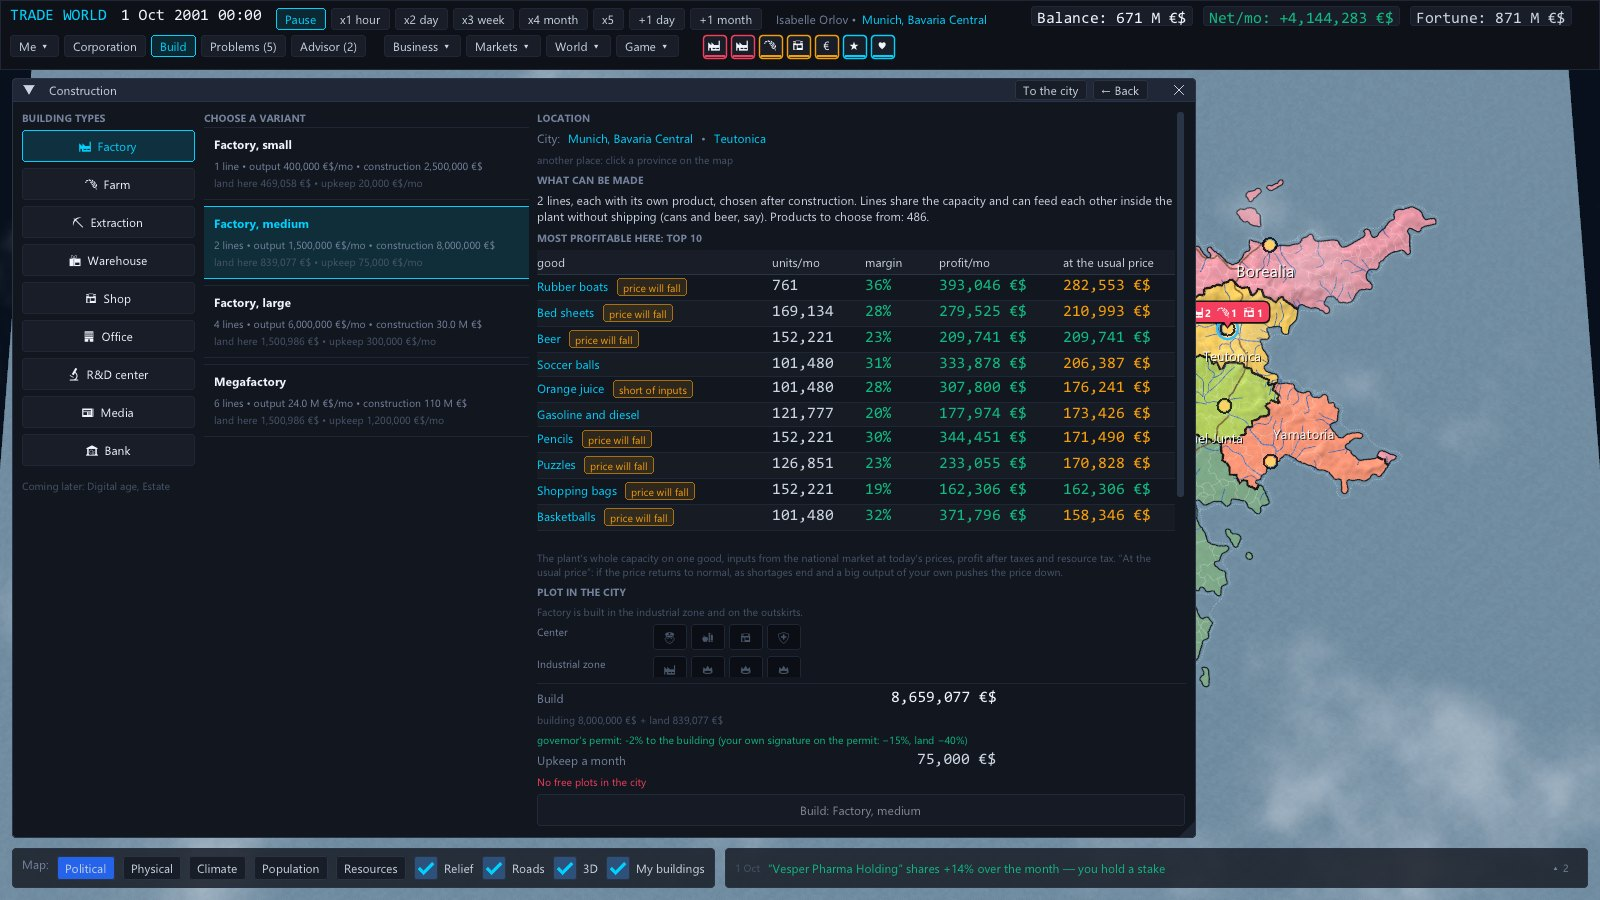
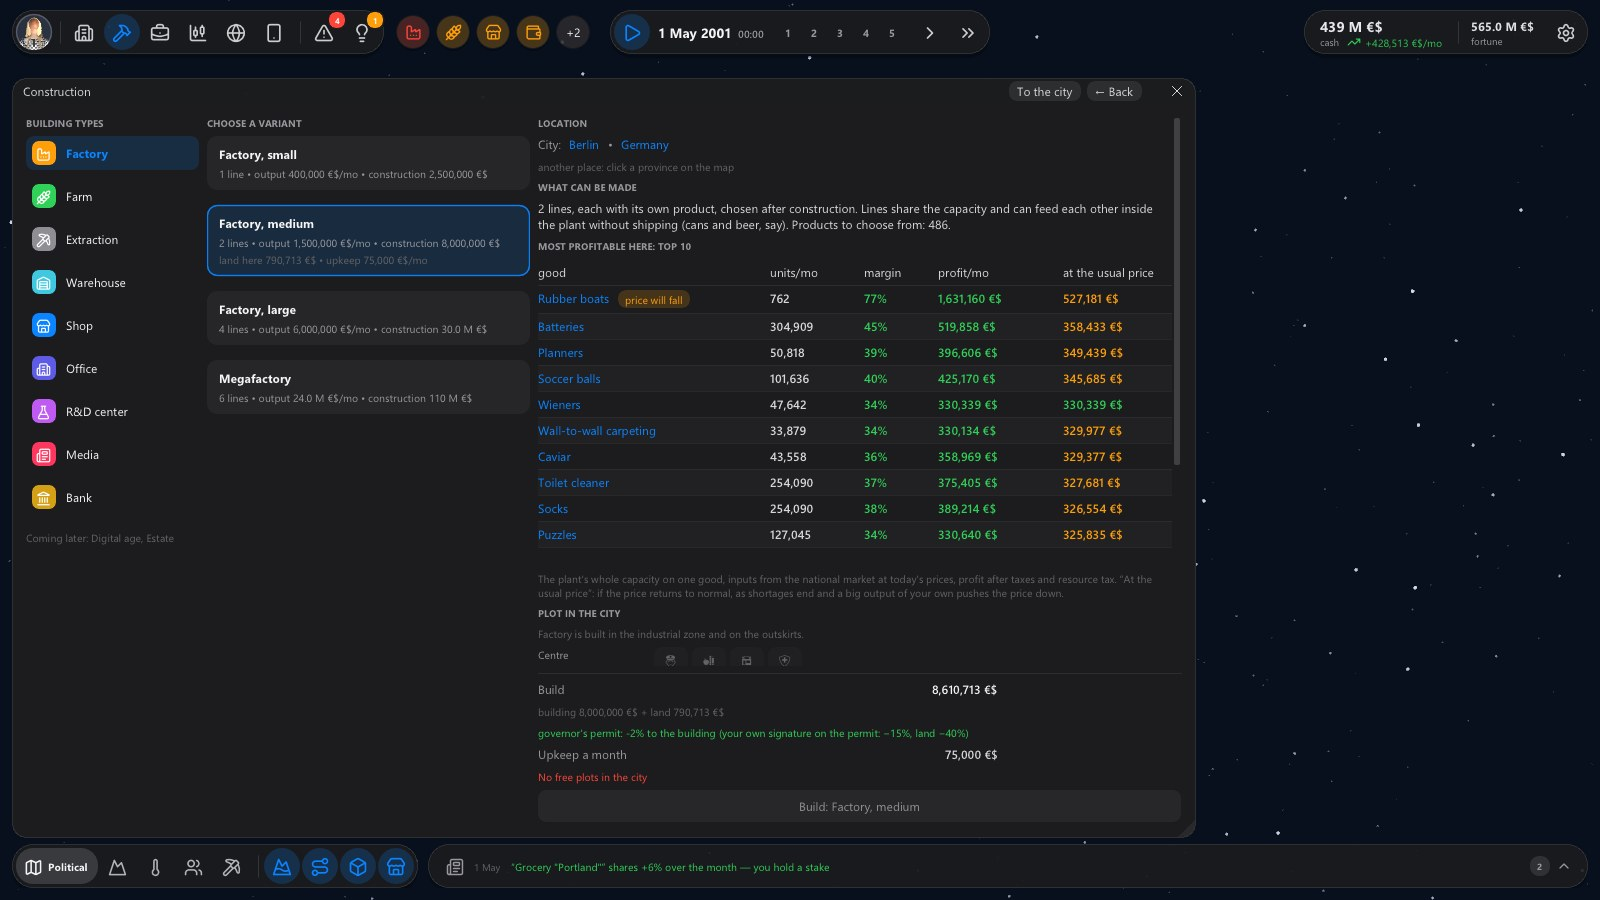
Beta 0.11: the Earth of 2000, magnates, warehouses you can feel, a new look

diff --git a/CHANGELOG.md b/CHANGELOG.md
@@ -1,5 +1,28 @@
 # Что нового / What's new
 
+## Beta 0.11 — 24.10.2026 · Бета 0.11
+**The real Earth of 2000, magnates who play by your rules, warehouses you can feel, and a new look.**
+
+- **The Earth of 2000:** real countries, regions and cities with their populations and economies as of 1 January 2000. Over 150 countries live — all of Europe, both Americas, Asia, Africa and Oceania. The scale is real: your first plant is a drop in the ocean. Poor but calm countries catch up with the rich; countries at war or in turmoil stand still.
+- **A map like an atlas:** muted country colours, relief showing through, country names along their shapes that stay put while you move. From afar it becomes a paper map, zoomed out further it rolls into a globe with no edge at the dateline.
+- **Magnates:** the world's 300 richest people play by your rules — they buy stakes, take control of companies, merge rivals, go into politics, outbid your offers, back raiders against your corporation and build plants against your goods. The Rivals tab of the Goals window shows who stands in your way.
+- **Warehouses:** ship to several countries at once; any good opens as a flow scheme (from → warehouses → to, arrows as thick as the units) with the production chain and its cost per step; the market and every export country by percent or in units a month; one plant's output split between warehouses (say 60/40); quick actions to cut a good, boost production or add sales.
+- **Rivals of your size:** people open their own shops and grow them into chains; spin any part of your business off into a subsidiary with a director you pick.
+- **A new interface:** dark glass, icons and cards that show the main thing at a glance; tables stay for fine control. Hover over a word or a number to see what it means.
+- **Fortunes on a real scale:** founders sell down over the years, companies pay their overheads, a small country's global firm no longer outgrows the world.
+- **Saves:** saves of 0.10 were made in the old fictional world and do not load in 0.11 (the game says so). Saves made in 0.11 will keep loading in the next versions.
+
+**Реальная Земля 2000 года, магнаты по вашим правилам, ощутимые склады и новый вид.**
+
+- **Земля 2000 года:** настоящие страны, области и города с населением и экономикой на 1 января 2000 года. Живут больше 150 стран — вся Европа, обе Америки, Азия, Африка и Океания. Масштаб реальный: ваш первый завод — капля в океане. Бедные спокойные страны догоняют богатых, страны в войне или смуте стоят на месте.
+- **Карта как атлас:** приглушённые цвета стран, рельеф сквозь заливку, названия стран по их форме, которые не дёргаются при движении камеры. Издали карта становится бумажной, при отдалении сворачивается в глобус без края на линии перемены дат.
+- **Магнаты:** 300 богатейших людей мира играют по вашим правилам — скупают доли, берут компании под контроль, сливают соперников, идут во власть, перебивают ваши оферты, стоят за рейдерами вашей корпорации и строят заводы против ваших товаров. Кто вам мешает — во вкладке «Соперники» окна «Цели».
+- **Склады:** экспорт сразу в несколько стран; любой товар открывается схемой потоков (откуда → склады → куда, толщина стрелки — единицы) с цепочкой производства и ценой каждого шага; рынок и каждая страна экспорта — в процентах или в штуках в месяц; выпуск одного завода делится между складами (например 60/40); быстрые действия: убавить товар, усилить производство, пополнить продажи.
+- **Соперники вашего размера:** люди открывают свои магазины и растят их в сети; любую часть бизнеса можно выделить в дочернюю компанию с директором, которого выберете вы.
+- **Новый интерфейс:** тёмное стекло, иконки и карточки, где главное видно с одного взгляда; таблицы остались для точной настройки. Наведите на слово или число — игра объяснит, что оно значит.
+- **Состояния в реальном масштабе:** основатели со временем продают доли, компании платят накладные, глобальная фирма маленькой страны больше не перерастает мир.
+- **Сохранения:** сохранения 0.10 сделаны в старом выдуманном мире и в 0.11 не загружаются (игра скажет об этом). Сохранения 0.11 будут грузиться и в следующих версиях.
+
 ## Beta 0.10 — 01.10.2026 · Бета 0.10
 **Managers run your empire, the late game pays for business, and the world works more like the real one.**
 

diff --git a/README.md b/README.md
@@ -7,7 +7,7 @@
 <p align="center">
   <a href="https://github.com/linlovedead/TradeWorld/releases/latest/download/TradeWorld.zip"><img src="https://img.shields.io/badge/Download%20%2F%20%D0%A1%D0%BA%D0%B0%D1%87%D0%B0%D1%82%D1%8C-Windows%2064--bit-5c7e10?style=for-the-badge" alt="Download"></a>
   <a href="https://linlovedead.itch.io/trade-world"><img src="https://img.shields.io/badge/itch.io-Trade%20World-fa5c5c?style=for-the-badge&logo=itch.io&logoColor=white" alt="itch.io"></a>
-  <br><sub>Free beta · English and Russian · zip ~85 MB · <a href="https://github.com/linlovedead/TradeWorld/releases">all versions</a> · <a href="CHANGELOG.md">what's new</a></sub>
+  <br><sub>Free beta · English and Russian · zip ~96 MB · <a href="https://github.com/linlovedead/TradeWorld/releases">all versions</a> · <a href="CHANGELOG.md">what's new</a></sub>
 </p>
 
 **[English](#english) · [Русский](#русский)**
@@ -16,13 +16,13 @@
 
 ## English
 
-Seventeen fictional countries live on their own: they grow their economies, change rulers, go to war, get rich and go broke. You start as one person with a little money — and decide who to become: a monopolist, the richest person in the world, the head of a dynasty, or the ruler of a country.
+The real Earth of 2000 lives on its own: over 150 countries grow their economies, change rulers, go to war, get rich and go broke. You start as one person with a little money — and decide who to become: a monopolist, the richest person in the world, the head of a dynasty, or the ruler of a country. The world's 300 richest people play by the same rules and stand in your way.
 
 Money turns into influence, and influence turns into laws. You build shops, plants and warehouses, link them into supply chains and take your corporation public. The world does not wait for you: companies swallow each other, governors steal the development money, neighbours fight over disputed land — and all of it hits your profit.
 
 ### What you can do
 
-- **Build** — factories with several production lines, farms, mines, warehouses, 25 kinds of shops, offices, R&D centers, media and your own bank. 533 goods in production chains.
+- **Build** — factories with several production lines, farms, mines, warehouses that ship anywhere in the world, 25 kinds of shops, offices, R&D centers, media and your own bank. 533 goods in production chains.
 - **Trade** — your own prices at home and for export, state orders, price wars with retail chains; every good has its buyer: some pay for the brand, some for the price.
 - **Grow** — headquarters and directors, an IPO, shares, raiders and the defence against them.
 - **Rule** — spheres of influence, posts of governor and minister, elections and coups; the head of state decides where the treasury goes.
@@ -56,13 +56,13 @@ In the game: **Game → Report a bug** — it packs your save and the log into o
 
 ## Русский
 
-Семнадцать вымышленных стран живут сами: строят экономику, меняют правителей, воюют, богатеют и беднеют. Вы начинаете одним человеком с небольшими деньгами — и решаете, кем стать: монополистом, богатейшим человеком мира, главой династии или правителем страны.
+Реальная Земля 2000 года живёт сама: больше 150 стран строят экономику, меняют правителей, воюют, богатеют и беднеют. Вы начинаете одним человеком с небольшими деньгами — и решаете, кем стать: монополистом, богатейшим человеком мира, главой династии или правителем страны. Триста богатейших людей мира играют по тем же правилам и стоят у вас на пути.
 
 Деньги становятся влиянием, влияние становится законами. Вы строите магазины, заводы и склады, собираете цепочки поставок, выводите корпорацию на биржу. Мир при этом живёт без вас: компании поглощают друг друга, губернаторы воруют деньги на развитие, соседи воюют из-за спорной земли — и всё это сразу бьёт по вашей прибыли.
 
 ### Что вы можете
 
-- **Строить** — фабрики с несколькими линиями, фермы, шахты, склады, 25 видов магазинов, офисы, НИИ, СМИ и свой банк. 533 товара в цепочках.
+- **Строить** — фабрики с несколькими линиями, фермы, шахты, склады с экспортом по всему миру, 25 видов магазинов, офисы, НИИ, СМИ и свой банк. 533 товара в цепочках.
 - **Торговать** — свои цены дома и на экспорт, госзаказ, ценовые войны с торговыми сетями; у каждого товара свой покупатель: кому бренд, кому цена.
 - **Расти** — штаб-квартира и директора, IPO, акции, рейдеры и защита от них.
 - **Властвовать** — сферы влияния, посты губернатора и министра, выборы и перевороты; глава страны решает, куда идёт казна.
